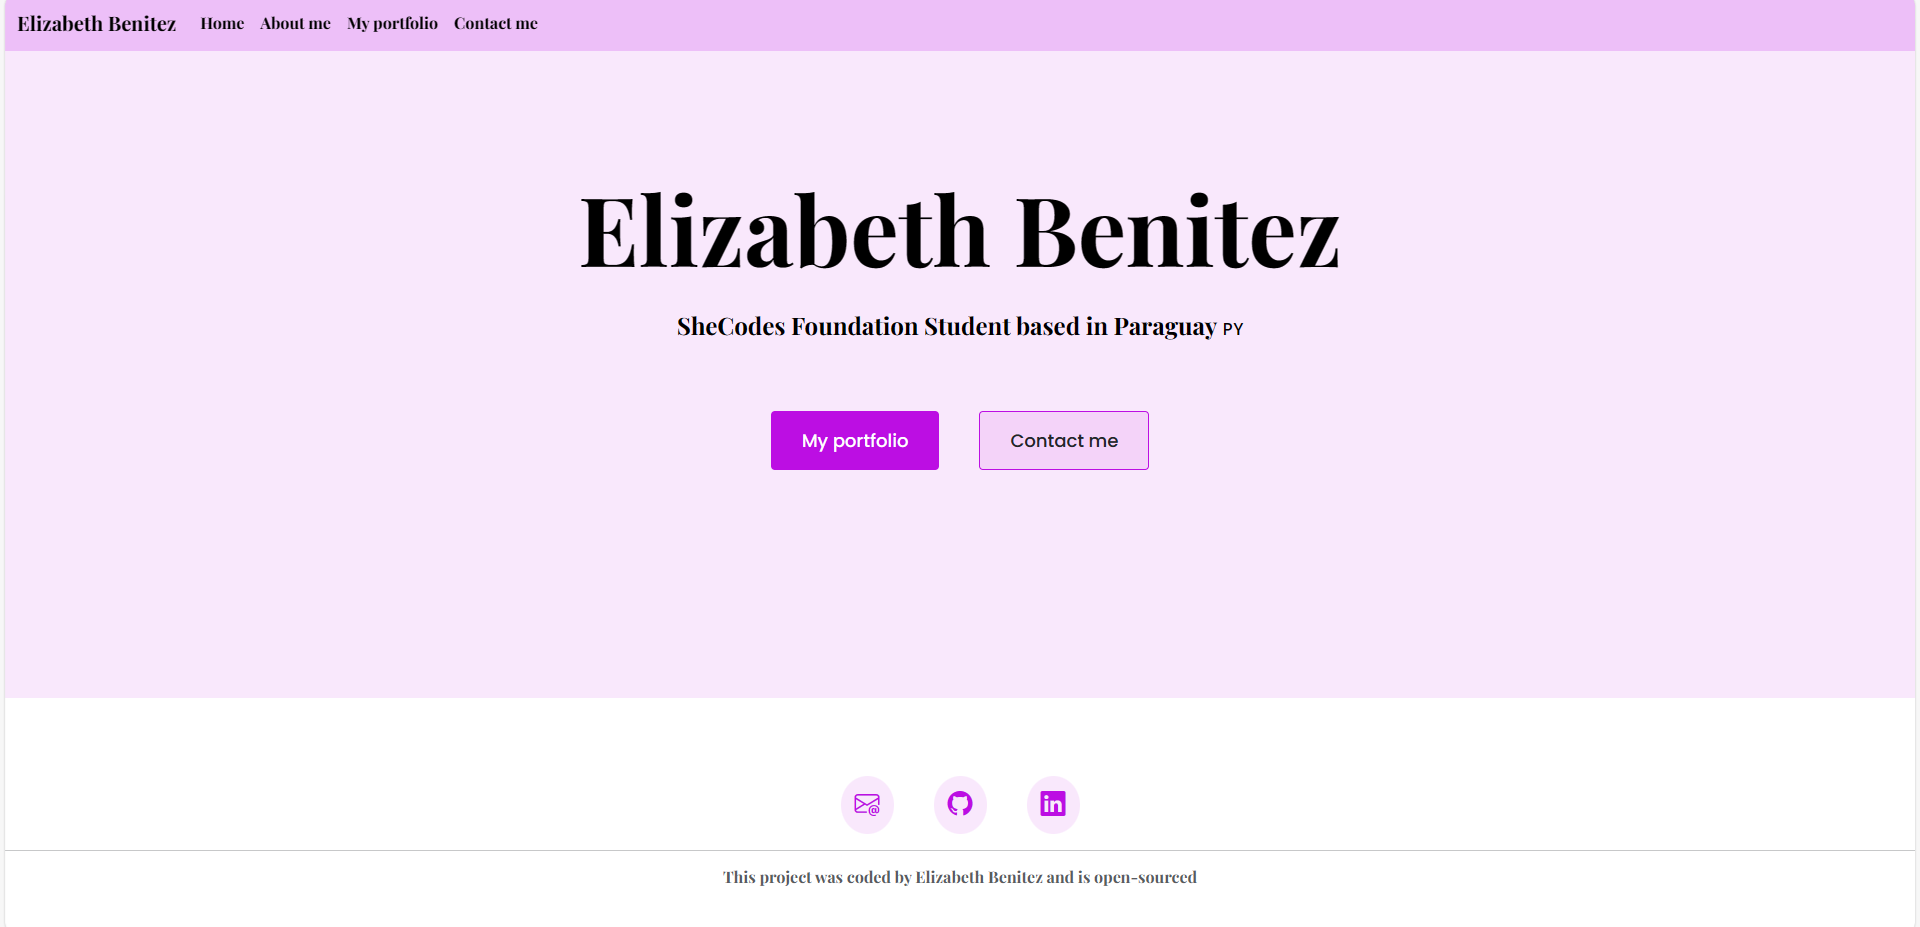
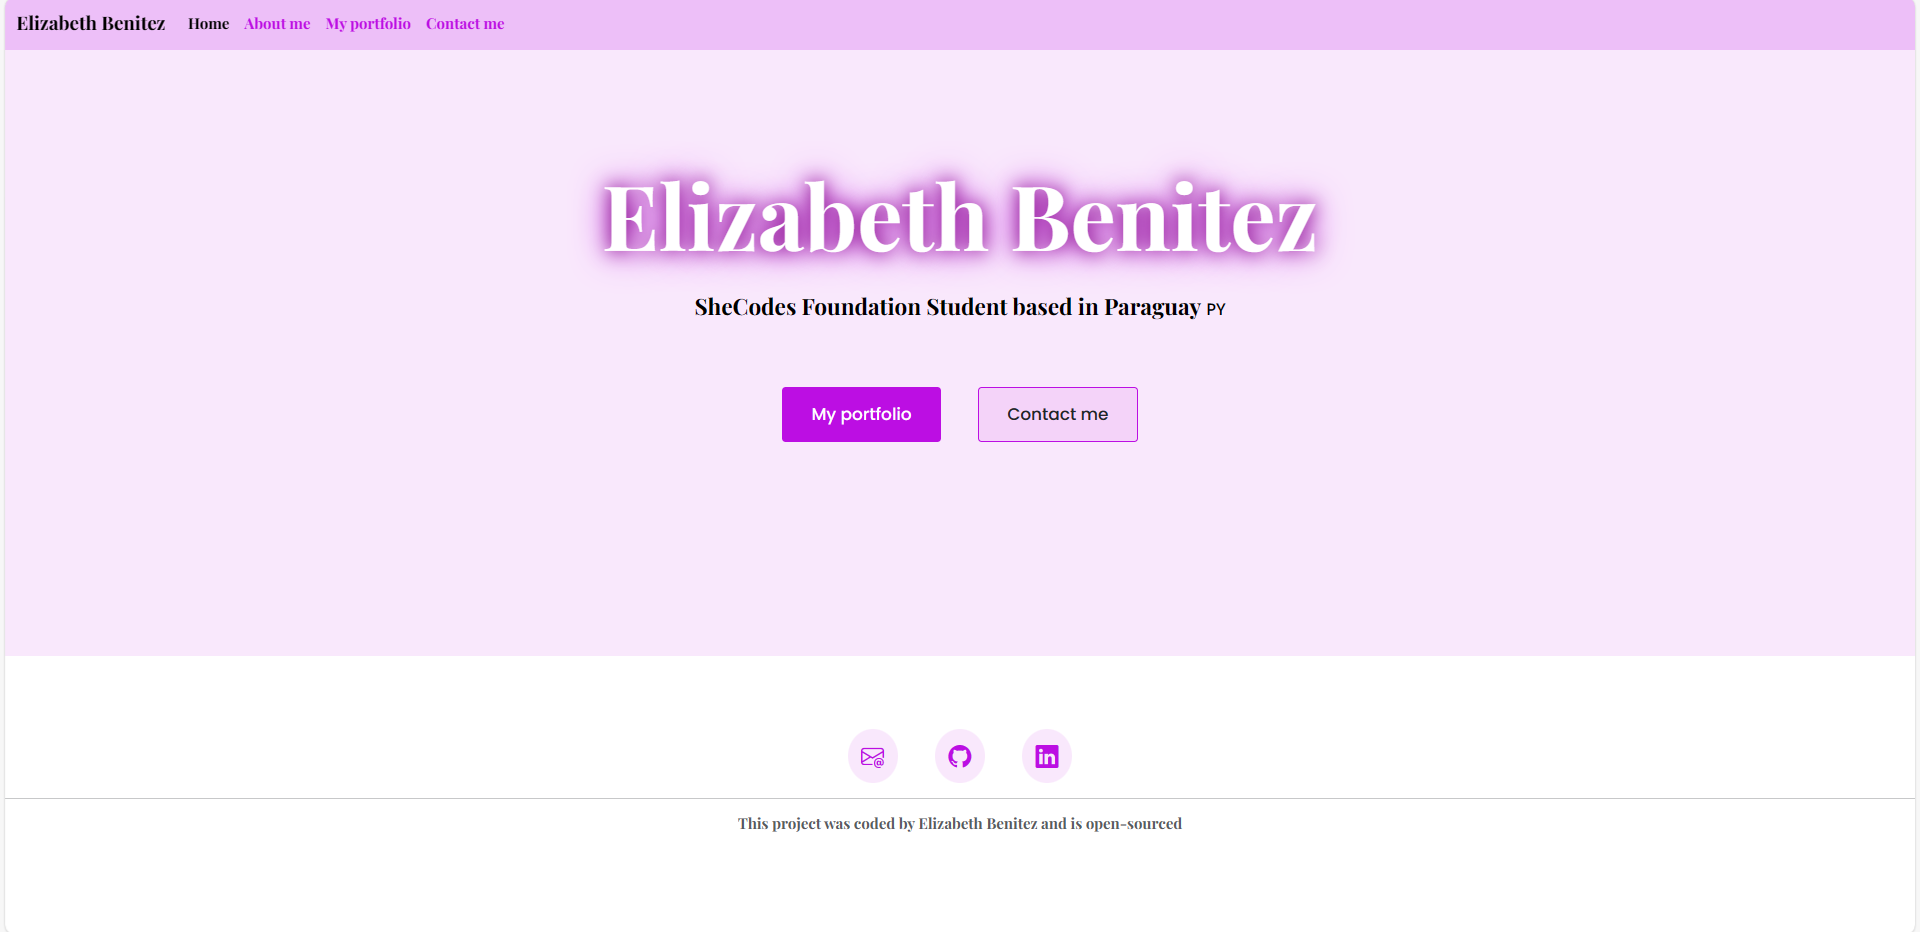
Main text style changed

diff --git a/index.html b/index.html
@@ -96,7 +96,7 @@
   </header>
   <body>
     <div class="hero">
-      <h1>Elizabeth Benitez</h1>
+      <h1 class="my-name">Elizabeth Benitez</h1>
       <h2 class="mb-5">SheCodes Foundation Student based in Paraguay 🇵🇾</h2>
       <div class="navigation-links mb-5">
         <a href="/work.html" class="btn btn-branding" title="Elizabeth projects"

diff --git a/style/index.css b/style/index.css
@@ -48,6 +48,11 @@ p {
   padding: 160px 20px;
 }
 
+.my-name {
+  text-shadow: 0 0 20px purple, 0 0 40px var(--branding-color);
+  color: white;
+}
+
 .hero p {
   font-size: 36px;
   font-weight: bold;
